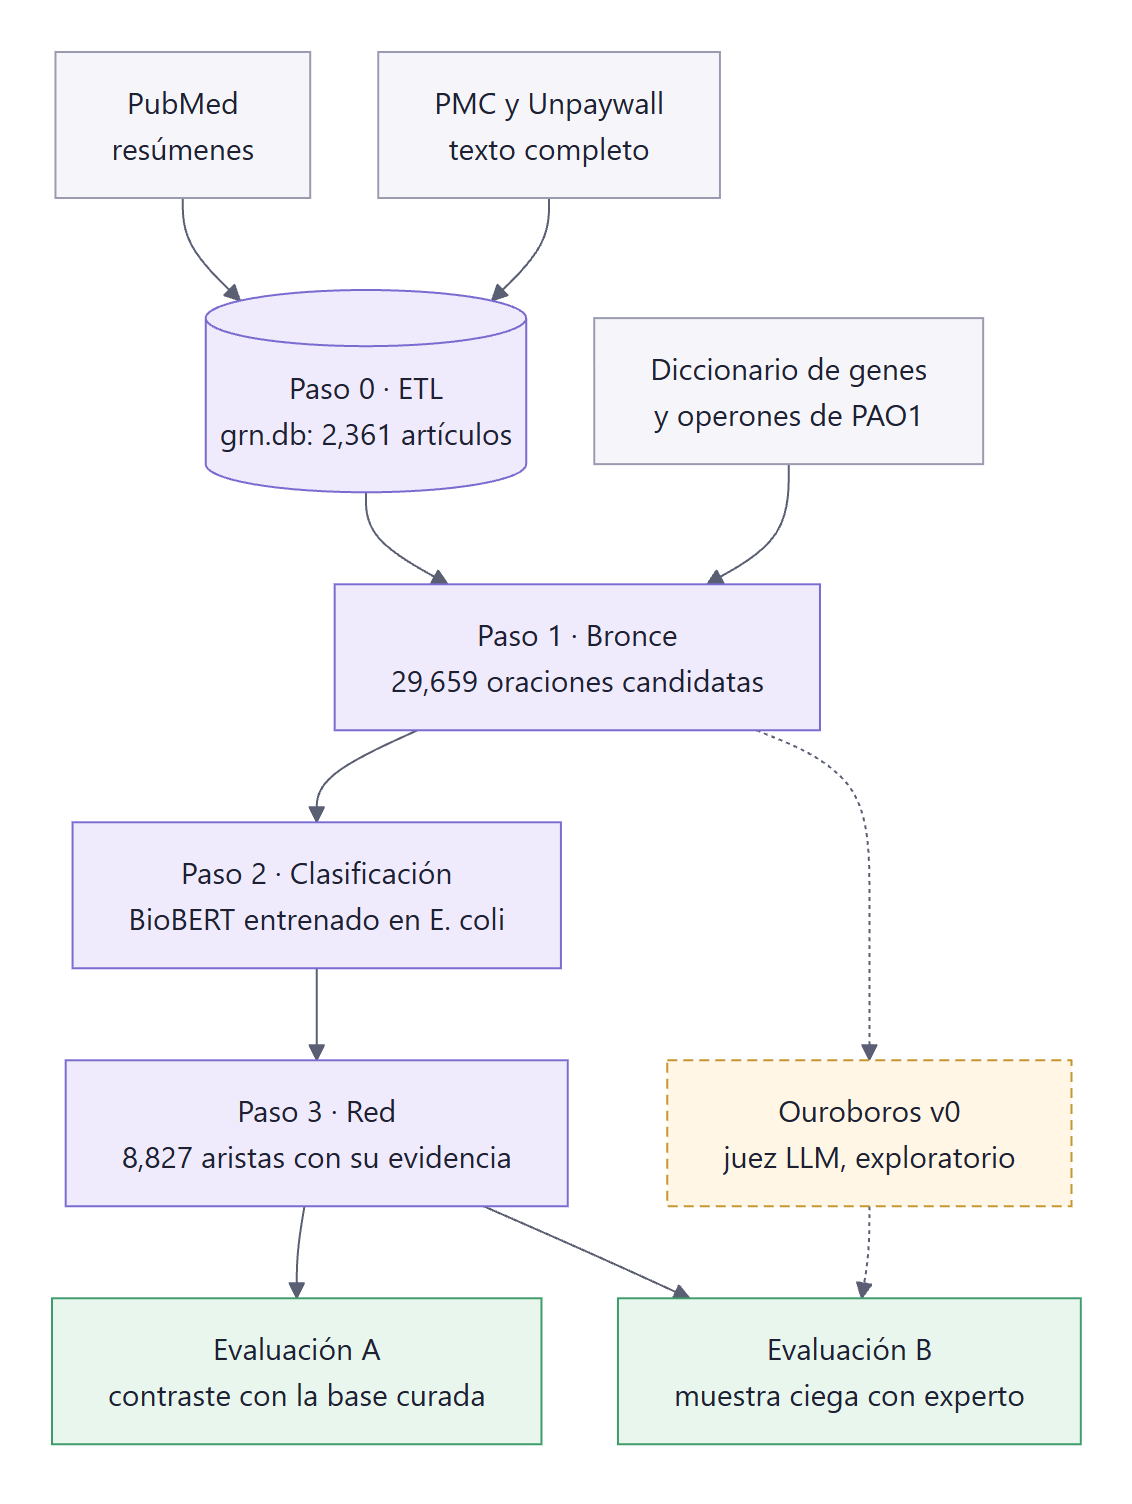
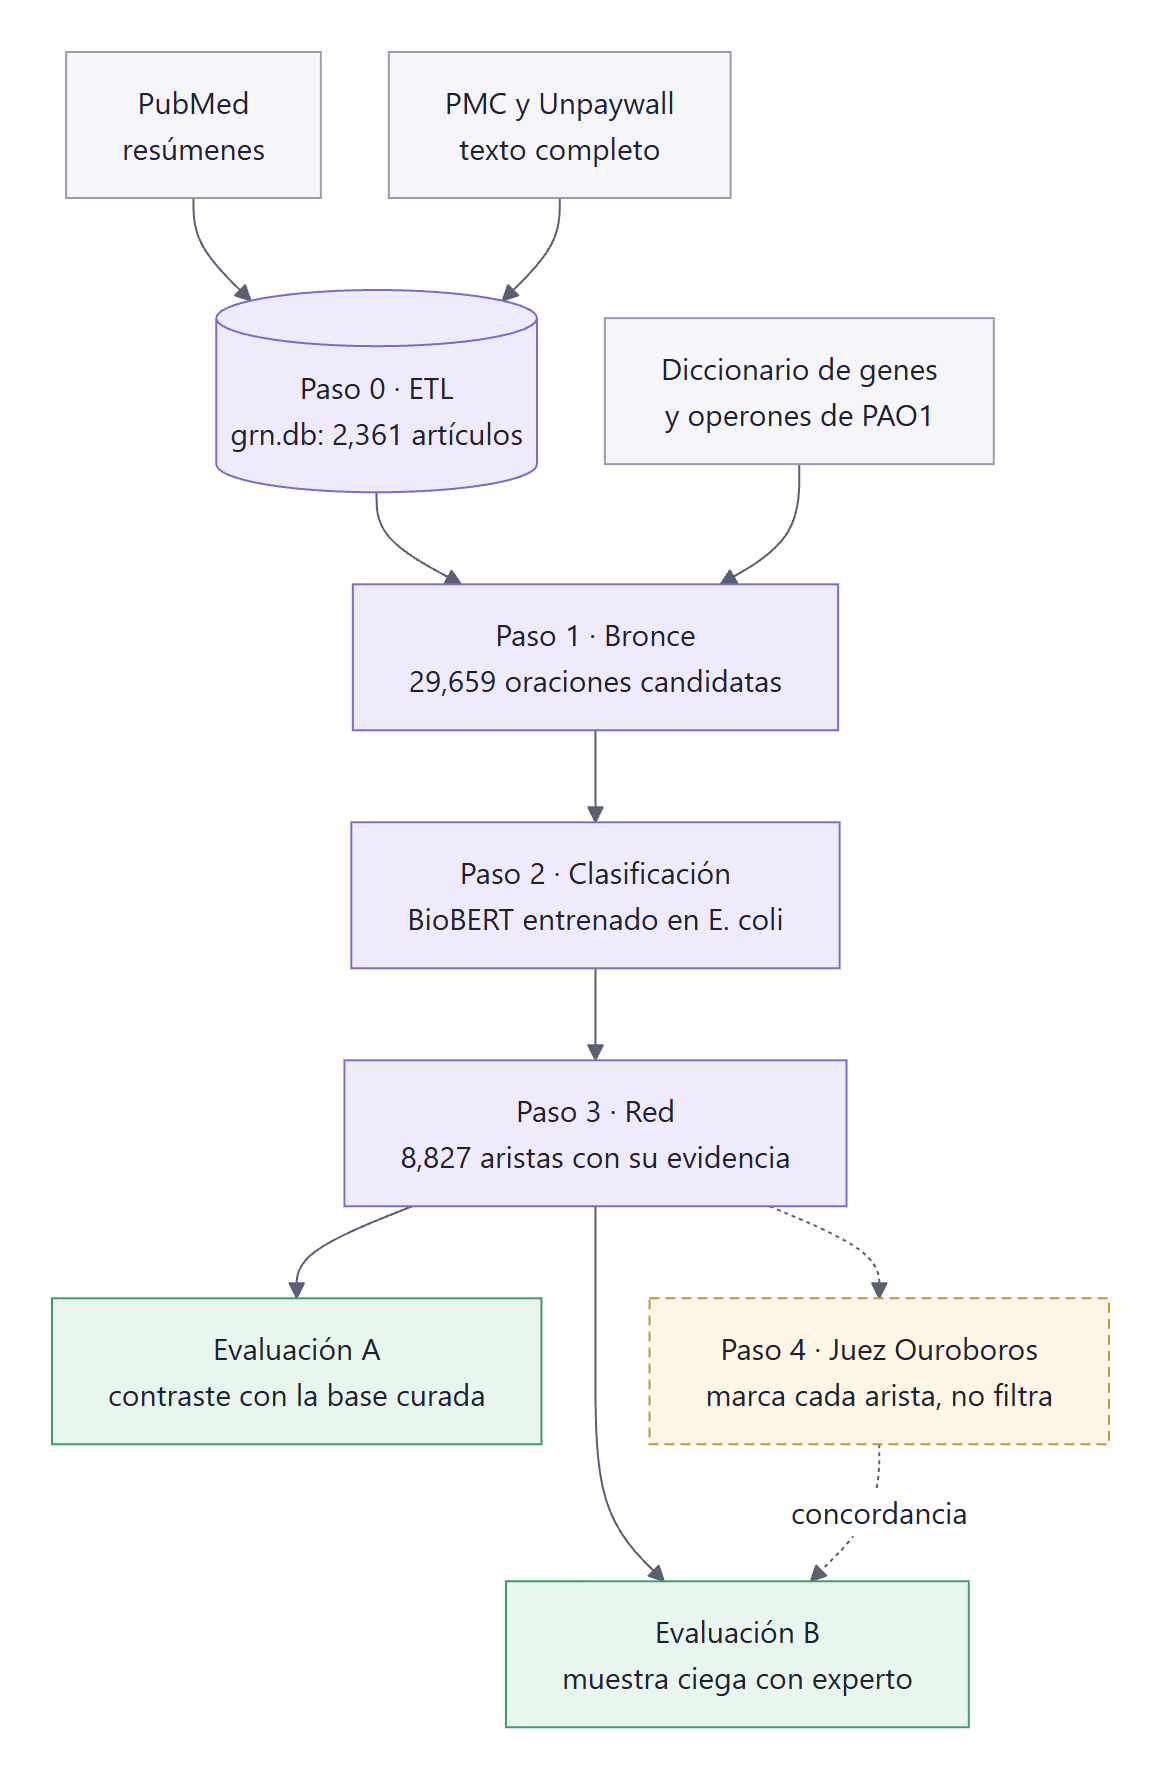
docs: bitácora del 4-nov y memoria técnica v0.4
Tanda 2 al corte de 100 (red, redes de signo y Ouroboros), prueba con 40
artículos nuevos de punta a punta, el agente como paso juez y el visor. Las
figuras de arquitectura y cronología, al día.

diff --git a/docs/reporte/reporte.md b/docs/reporte/reporte.md
@@ -6,7 +6,7 @@ encabezado: Memoria técnica · GRN de P. aeruginosa PAO1 desde la literatura
 autor: Guillermo Resendiz
 asesor: Dr. Edgardo Galán-Vásquez
 institucion: IIMAS, UNAM
-version: v0.2 (borrador) · 30-oct-2026
+version: v0.4 (borrador) · 4-nov-2026
 -->
 
 ## Ficha técnica
@@ -23,8 +23,8 @@ version: v0.2 (borrador) · 30-oct-2026
 | Referencias para evaluar | base curada del laboratorio (5,584 filas; 2,077 exigibles), muestra ciega (2 tandas de 200), patrón de oro (190), CollecTF (333 pares) |
 | Núcleo | Python ≥ 3.8, solo biblioteca estándar, SQLite |
 | Entornos aparte | `.venv` (torch, transformers) para BioBERT; `.venv-nlp` (spaCy) para la sintaxis; `.venv-ouroboros` (Strands, Ollama) en el servidor |
-| Pruebas | 1,794 en la raíz y 528 en `etapa2/` |
-| Estado al 30-oct | tanda 2 en anotación; cierre técnico el 4-nov-2026 |
+| Pruebas | 1,804 en la raíz y 528 en `etapa2/` |
+| Estado al 4-nov | tanda 2 medida a la mitad (100/200); prueba con 40 artículos nuevos corrida sin anotación; agente integrado al flujo como paso `juez` |
 
 ## 1. Objetivo y alcance
 
@@ -44,7 +44,7 @@ organismos.
 
 ## 2. Arquitectura
 
-<!-- figura: panorama | Figura 1. Pipeline completo: fuentes, pasos 0 a 3 y las dos evaluaciones. Ouroboros va en paralelo y no alimenta la red. -->
+<!-- figura: panorama | Figura 1. Pipeline completo: fuentes, pasos 0 a 4 y las dos evaluaciones. El juez (Ouroboros) marca la red y no la filtra. -->
 ```mermaid
 flowchart TB
   PM["PubMed<br/>resúmenes"]:::fuente
@@ -56,7 +56,7 @@ flowchart TB
   RED["Paso 3 · Red<br/>8,827 aristas con su evidencia"]:::paso
   CUR["Evaluación A<br/>contraste con la base curada"]:::ev
   CIEGA["Evaluación B<br/>muestra ciega con experto"]:::ev
-  OU["Ouroboros v0<br/>juez LLM, exploratorio"]:::expl
+  OU["Paso 4 · Juez Ouroboros<br/>marca cada arista, no filtra"]:::expl
   PM --> DB
   PMC --> DB
   DB --> OC
@@ -64,7 +64,8 @@ flowchart TB
   OC --> BB --> RED
   RED --> CUR
   RED --> CIEGA
-  OC -.-> OU -.-> CIEGA
+  RED -.-> OU
+  OU -. "concordancia" .-> CIEGA
   classDef fuente fill:#F6F6FA,stroke:#9A9AB0,color:#1F2133
   classDef paso fill:#EFEBFC,stroke:#7A6BD1,color:#1F2133
   classDef ev fill:#E8F6EE,stroke:#3E9B6A,color:#1F2133
@@ -84,6 +85,8 @@ flowchart TB
 | `servidor.py`, `web/index.html` | tablero local: ETL, pipeline, revisión |
 | `revision.py`, `revision_portatil.py` | anotación ciega y página portátil para el experto |
 | `grn_ouroboros/` | juez LLM (Strands + Ollama), solo en el servidor |
+| `grn_verificacion/juez.py` | paso `juez` del flujo: hoja para el agente y unión de su veredicto con la red |
+| `visor_red.py` | visor HTML autocontenido de una red, con su evidencia y el veredicto del agente |
 
 <!-- figura: donde | Figura 2. Dónde corre cada parte y qué viaja entre máquinas. De la base curada solo salen conteos. -->
 ```mermaid
@@ -122,6 +125,7 @@ timeline
   Septiembre : F2 · Paso 1, bronce de punta a punta, precisión 44 % : F3 · Operones y vocabularios, corridas 2 a 4
   Octubre 1-16 : F4 · flujo.py integrado y tablero : F5 · BioBERT reentrenado con la base curada, v1
   Octubre 17-31 : F5 · v2, decisión g : F6 · Contraste y muestra ciega, tanda 1 : F7 · Ouroboros v0 y prompt congelado : F8 · Tanda 2 en anotación
+  Noviembre 1-4 : F9 · Tanda 2 a la mitad, artículos nuevos, agente en el flujo y visor
 ```
 
 | Fase | Fechas | Qué se agregó | Por qué | Resultado |
@@ -135,6 +139,7 @@ timeline
 | F6 · Evaluación | 22–24 oct | `cli muestra` (sorteo), rúbrica, contraste con exigibles y techo, tanda 1 anotada, protocolo de la tanda 2 con huellas, signo como parámetro | Medir precisión y recall con un diseño que no permita ajustar después | Precisión 53.0 % → 61.3 %; recall dirigido 41.2 % |
 | F7 · Ouroboros v0 | 24–27 oct | Juez LLM con Strands y Qwen3-8B en Ollama; calibración; tanda 1 con 3 configuraciones; prompt congelado; tanda 2 corrida | Explorar un filtro automático antes del experto | Filtro: 94.3 % de precisión (66/70) en la principal |
 | F8 · Cierre | 23–30 oct | Página portátil de revisión (ceguera y tiempo por tramo), portada del tablero, desviación 1, esta memoria | Que el experto anote sin ver predicciones y que el proyecto se entienda | Tanda 2 en anotación (50/200 al 30-oct) |
+| F9 · Prueba e integración | 1–4 nov | Tanda 2 medida a la mitad (enmienda 4); descarga de artículos nuevos con su protocolo; Ouroboros como paso `juez` del flujo; visor de la red | Probar lo construido sobre datos que no se usaron para desarrollarlo, y verlo de punta a punta | La red mejora al bronce también en prueba; el agente filtra mejor que la red; 40 artículos nuevos corridos de punta a punta |
 
 **Incidentes con efecto en el diseño:**
 
@@ -421,10 +426,55 @@ Sobre las 1,560 filas exigibles sin el estrato BioBERT:
 - **Sintaxis (spaCy):** orienta 10,299 de 76,453 pares (13.5 %); queda
   informativa.
 
-### 6.4 Tanda 2 (prueba)
+### 6.4 Tanda 2 (prueba), corte intermedio de 100
 
-Pendiente: el experto la termina el fin de semana del 1-nov. Se reporta con
-`precision-ciega` y `concordancia`, según `docs/protocolo-tanda2.md`.
+El experto lleva 100 de 200 ítems. El corte se registró antes de medir
+(enmienda 4 de `docs/protocolo-tanda2.md`): son las filas 1 a 100 de la hoja,
+en el orden fijado en el sorteo, y las redes coinciden con sus huellas
+congeladas. **La cifra de prueba es la de los 200**; esta es intermedia.
+
+| Filtro | Precisión con dirección | Retención de las verdaderas | Diferencia contra el bronce (IC 95 %, bootstrap pareado) |
+|---|---|---|---|
+| Ninguno (bronce) | 39.0 % (39/100) [30.0, 48.8] | — | — |
+| Red oficial | 47.8 % (32/67) [36.2, 59.5] | 82.0 % (32/39) | [+2.3, +15.5] |
+| Ouroboros principal | 71.7 % (33/46) [57.5, 82.7] | 84.6 % (33/39) | [+22.7, +43.6] |
+| Ouroboros con think | 77.1 % (27/35) [61.0, 87.9] | 69.2 % (27/39) | [+26.2, +51.0] |
+
+- **Se sostiene:** la red mejora al bronce (el intervalo no incluye 0) y
+  retiene más del 80 % de las verdaderas, como en la tanda 1.
+- **Baja el nivel:** unos 13 puntos en el bronce y en la red respecto a la
+  tanda 1. La tanda 1 es de desarrollo; además, la tanda 2 tiene menos `si`
+  (57 % contra 73 %), y la guía incorporó las fallas de la tanda 1.
+- **Signo, no se sostiene:** con la abstención como error, la red da 11/24
+  contra 18/24 de «siempre activa»; cuando da signo, 11/18 contra 14/18. Las
+  reglas de respaldo llegan a 13/24 (`signo`) y 14/24 (`signo_conservador`,
+  `signo_articulo`).
+- **Tiempo del experto:** mediana de 89.5 s por oración (201 min en 98).
+
+### 6.5 Prueba con artículos nuevos
+
+Protocolo: `docs/protocolo-prueba-nuevos.md` (enmiendas 1 y 2, anteriores a
+descargar). Mide el pipeline congelado sobre artículos dados de alta en
+PubMed después de armar el corpus.
+
+| Paso | Resultado |
+|---|---|
+| Congelamiento | modelo, umbrales, red y 10 recursos del bronce coinciden con `congelado-prueba-nuevos.json` |
+| Descarga (alta en PubMed del 19-ago al 4-nov-2026) | 40 artículos distintos, solo resumen: 26 + 22 + 2 por consulta |
+| Contaminación | 0 cruces con el corpus, las reservas, las tandas, las juzgadas, la base curada y las particiones de entrenamiento |
+| Bronce (corrida 16) | 425 oraciones, 36 candidatas |
+| Clasificación y red | 109 pares, 95 sobre el umbral, 61 aristas, 36 genes |
+| Contra la red de agosto | 34 aristas confirman pares conocidos (11 con el mismo signo), 27 son nuevas |
+| Juicio del agente (paso `juez`) | 13 confirmadas, 6 invertidas, 5 dudosas, 34 rechazadas, 3 sin juicio |
+
+- **Sin cifra de calidad todavía.** La muestra del protocolo se sortea entre
+  las oraciones con el par del bronce, y en 40 resúmenes son 7. La propuesta
+  es anotar el censo de los 109 pares, con una enmienda previa.
+- **Errores visibles:** coocurrencias en listas («LuxR homologs: LasR, RhlR
+  and QscR») y reguladores fuera del diccionario («Gp53 represses ftsZ, fleQ,
+  pslA and amrZ»; Gp53 es de un fago). El agente rechaza esos casos, pero
+  confirma por error aristas de listas de genes regulados juntos
+  («co-treatment downregulated lasR, rhlR, pslA, pelA and fliC»).
 
 ## 7. Ouroboros v0
 
@@ -442,8 +492,10 @@ flowchart LR
 ```
 
 - **Qué es:** un anotador automático que contesta las mismas hojas que el
-  experto, con las etiquetas de la rúbrica. No es un paso de `flujo.py` ni toca
-  la red.
+  experto, con las etiquetas de la rúbrica.
+- **En el flujo:** desde el 4-nov es el paso `juez`. Juzga cada oración de
+  evidencia de la red y deja su veredicto en `red_juez.tsv`. **Marca, no
+  filtra**: `red.tsv` no cambia y sus cifras no dependen del agente.
 - **Entorno:** `.venv-ouroboros` (Python 3.12.11; strands-agents 1.62.0,
   evals 1.7.0, tools 0.8.10, ollama 0.6.3); Ollama 0.40.9 en el servidor
   (RTX 3070, 8 GB); `qwen3:8b` Q4_K_M, digest `500a1f067a9f`. El juez nunca
@@ -465,9 +517,19 @@ en VRAM). Con q8_0 y flash attention entra completo (5.24 GiB).
 | `buscar_locus` | 63.6 % (0.329) | 73.2 % (0.571) | 61.1 % (0.463) | 88.1 % (74/84) | 70.5 % | 11 | 4.1 |
 | con think | 62.1 % (0.353) | 72.2 % (0.585) | 63.6 % (0.507) | 96.0 % (72/75) | 68.6 % | 6 | 16.9 |
 
-**Tanda 2:** corrida el 27-oct, antes de que empezara la anotación. Válidas:
-187, 186 y 193 de 200. La concordancia se calcula cuando llegue la exportación
-del experto.
+**Tanda 2, corte de 100** (corrida el 27-oct, antes de que empezara la
+anotación; abstención = error):
+
+| Configuración | Relación (κ) | Dirección (κ) | Signo (κ) | Filtro: precisión | Retiene | Abst. |
+|---|---|---|---|---|---|---|
+| principal | 62.0 % (0.358) | 61.0 % (0.408) | 38.0 % (0.156) | 71.7 % (33/46) | 84.6 % | 5 |
+| `buscar_locus` | 64.0 % (0.378) | 61.0 % (0.402) | 39.0 % (0.170) | 69.4 % (34/49) | 87.2 % | 3 |
+| con think | 62.0 % (0.374) | 63.0 % (0.447) | 46.0 % (0.250) | 77.1 % (27/35) | 69.2 % | 3 |
+
+Como filtro, en la tanda 2 el agente supera a la red sobre los mismos ítems:
+71.7 % contra 47.8 % de precisión, con retención parecida (84.6 % contra
+82.0 %). El acuerdo campo por campo es moderado en relación y bajo en signo y
+tipo.
 
 ## 8. Decisiones
 
@@ -481,7 +543,7 @@ Formato: se decidió X; la alternativa Y se activa con el parámetro Z.
 | Operón como nodo | expandir a sus genes | `operones=expandir` | conserva lo que dice el texto |
 | Reglas de signo de respaldo apagadas | prenderlas | `--signo-lexico`, `--voto-articulo` | se miden en la tanda 2 |
 | Denominador del contraste: 2,077 | otra regla de exigibles | regla versionada | fija la cifra entre corridas |
-| Ouroboros fuera del flujo | integrarlo como paso | — | exploratorio; el flujo es determinista |
+| Ouroboros en el flujo como paso `juez`, que marca y no filtra | filtrar la red con su veredicto | — | la red medida no cambia; el filtro se decide con la tanda 2 completa |
 | Principal de Ouroboros sin think | con think | `--config con_think` | pre-registrada antes de medir |
 | Todo local | modelo grande en la nube | permiso del asesor | sin servicios externos ni datos fuera |
 
@@ -489,7 +551,7 @@ Detalle de cada decisión: `docs/decisiones.md`.
 
 ## 9. Reproducción
 
-*La receta se verifica en un clon limpio en la v0.3.*
+*La receta se verifica en un clon limpio en una versión posterior.*
 
 | Requisito | Para qué |
 |---|---|
@@ -505,13 +567,17 @@ python cli.py run pa_regulacion
 python cli.py fulltext --tipo xml
 python flujo.py --corrida 4
 python -m unittest discover
+python visor_red.py --carpeta salidas/flujo/corrida4_run22 --salida visor.html
 ```
+
+El paso `juez` necesita correr Ouroboros en el servidor entre dos pasadas;
+los comandos están en `docs/ouroboros-v0.md`, «Integrado al flujo».
 
 | Verificación | Valor esperado |
 |---|---|
 | Oraciones candidatas, corrida 4 | 29,659 |
 | Aristas en `red.tsv` | 8,827 |
-| Pruebas de la raíz | 1,794 OK |
+| Pruebas de la raíz | 1,804 OK |
 | Recall dirigido (servidor) | 642/1,560 |
 
 Contraste y muestra ciega en el servidor: `docs/servidor-cierre.md`.
@@ -522,11 +588,13 @@ Ouroboros: `docs/ouroboros-v0.md`.
 - **Recall limitado por el corpus:** el techo es 46.2 %. Lo que falta está en
   material suplementario o en artículos sin texto completo.
 - **Dirección:** 27 % de inversiones en el bronce.
-- **Signo:** abstención alta.
+- **Signo:** en la tanda 2 no supera a «siempre activa», ni cuando lo da.
+- **Tanda 2 a la mitad:** faltan 100 ítems; la cifra de prueba es la de 200.
+- **Artículos nuevos sin cifra de calidad:** falta anotar los 109 pares.
+- **El agente** confirma por error coocurrencias en listas de genes
+  regulados juntos.
 - **Un solo anotador experto;** acuerdo entre anotadores en curso (50 ítems,
   segunda anotadora).
-- **Corpus congelado** en agosto de 2026; la prueba con artículos nuevos tiene
-  protocolo (`docs/protocolo-prueba-nuevos.md`).
 - **Tesis:** LLM sobre el residuo, material suplementario, herramientas del
   juez, otros organismos.
 
@@ -546,12 +614,16 @@ Ouroboros: `docs/ouroboros-v0.md`.
 | Pre-registro | escribir qué se mide y cómo antes de ver los datos |
 | Tanda | lote de oraciones sorteadas para anotación ciega |
 
-## Anexo B. Desviaciones del protocolo
+## Anexo B. Enmiendas posteriores y desviaciones del protocolo
 
 - **Desviación 1 (30-oct-2026).** Una sesión de Claude vio un respaldo parcial
   de la tanda 2: 50 ítems, solo identificadores y juicios. Redes, prompt y
   corridas de Ouroboros estaban congelados antes de que empezara la anotación.
   Registro: `docs/protocolo-tanda2.md`.
+- **Enmienda 4 de la tanda 2 (4-nov-2026).** Corte intermedio de 100 ítems,
+  registrado antes de medir. La cifra de prueba sigue siendo la de los 200.
+- **Enmienda 2 de la prueba con artículos nuevos (4-nov-2026).** Ouroboros
+  entra a la prueba; registrada antes de descargar.
 
 ## Anexo C. Documentos de referencia
 

diff --git a/docs/bitacora.md b/docs/bitacora.md
@@ -8,6 +8,74 @@ Para el detalle técnico de cada punto está
 
 ---
 
+## 4 de noviembre de 2026 — la tanda 2 a la mitad, los artículos nuevos y el agente en el flujo
+
+El asesor pidió ver el sistema integrado y probado antes del 6-nov. El
+experto lleva 100 de 200 ítems de la tanda 2 y no puede anotar más esta
+semana. Todo lo de hoy lo corrió Hermes.
+
+**Tanda 2, corte intermedio de 100 (enmienda 4, `bc3564f`).** Antes de medir
+se comprobó que las seis redes y las evidencias de la recomendada tienen las
+huellas de la enmienda 1. Los 100 son las filas 1 a 100 de la hoja, en el
+orden fijado en el sorteo.
+
+| | bronce | red oficial | Ouroboros principal | con think |
+|---|---|---|---|---|
+| precisión con dirección | 39/100 = 39.0 % [30.0, 48.8] | 32/67 = 47.8 % [36.2, 59.5] | 33/46 = 71.7 % [57.5, 82.7] | 27/35 = 77.1 % [61.0, 87.9] |
+| retención de las verdaderas | — | 32/39 = 82.0 % | 33/39 = 84.6 % | 27/39 = 69.2 % |
+| diferencia contra el bronce (bootstrap pareado) | — | [+2.3, +15.5] | [+22.7, +43.6] | [+26.2, +51.0] |
+
+- `buscar_locus`: 34/49 = 69.4 %, retiene 87.2 %, [+21.0, +40.7].
+- Acuerdo de Ouroboros con el experto en `relacion`: principal 62.0 %
+  (κ 0.358), `buscar_locus` 64.0 % (κ 0.378), con think 62.0 % (κ 0.374). En
+  signo y tipo, κ entre 0.16 y 0.25. Abstenciones: 5, 3 y 3.
+- Las otras redes dan la misma precisión que la oficial (las de signo solo
+  cambian el signo); la recomendada, 32/69 = 46.4 %.
+- **Signo.** Con la abstención como error, la oficial da 11/24 contra 18/24
+  de «siempre +»; `signo`, 13/24; `signo_conservador` y `signo_articulo`,
+  14/24. Cuando la red da signo, 11/18 contra 14/18. En la tanda 1 ganaba
+  cuando lo daba (42/48 contra 35/48): en la tanda 2 no se sostiene. La
+  diferencia pareada entre `signo` y la oficial queda para los 200:
+  `precision-ciega` no guarda el resultado por ítem.
+- **Tiempo del experto:** 201 min en 98 ítems, mediana de 89.5 s por ítem.
+- Lectura: la precisión baja unos 13 puntos contra la tanda 1, en el bronce y
+  en la red; la mejora de la red se mantiene. En la tanda 2 hay menos `si`
+  (57 % contra 73 %), y después de la tanda 1 la guía incorporó sus fallas
+  (negación, mutantes que invierten el signo, otro organismo).
+
+**Prueba con artículos nuevos (`protocolo-prueba-nuevos.md`, enmienda 2,
+`2149bd8`).**
+- Congelamiento comprobado: los 10 recursos, la red y los 5 archivos del
+  modelo coinciden; del código, desde la etiqueta solo cambió la evaluación.
+- Descarga con alta en PubMed del 2026/08/19 al 2026/11/04: 26
+  (`nuevos_pa_regulacion`), 22 (`nuevos_pa_reguladores`) y 2
+  (`nuevos_pa_evidencia_union`); 40 distintos.
+- Contaminación: 0 cruces en la laptop (corpus, reservas, tandas 1 y 2,
+  juzgadas) y en el servidor (base curada, particiones v1 y v2).
+- Corpus `nuevos-20261104` (40, huella `56abe0d6dd8c6f01`), bronce corrida 16:
+  425 oraciones, 36 candidatas, 7 con regulador y blanco.
+- Flujo: 109 pares en 32 oraciones de 19 artículos, 95 pasan el umbral, red
+  de 61 aristas y 36 nodos. Contra la red de la corrida 4: 11 en la misma
+  dirección y signo, 23 en la misma dirección con otro signo, 27 nuevas.
+- **El diseño no alcanza:** la muestra se sortea entre las oraciones con el
+  par del bronce, y son 7. El experto no puede anotar esta semana, así que
+  la prueba con artículos nuevos queda sin cifra de calidad. Propuesta para
+  después: el censo de los 109 pares, con una enmienda antes de anotar.
+
+**Ouroboros entra al flujo como el paso `juez`** (`decisiones.md`). Sobre la
+red de los artículos nuevos (93 oraciones, unos 3 min de GPU, 3
+abstenciones): 13 aristas confirmadas, 6 invertidas, 5 dudosas, 34 rechazadas
+y 3 sin juicio. Rechaza las aristas de «Gp53 represses ftsZ, fleQ, pslA and
+amrZ» (Gp53, de fago, no está en el diccionario) y las de listas como «LuxR
+homologs: LasR, RhlR and QscR». Confirma, mal, aristas de listas de genes
+regulados juntos («co-treatment downregulated lasR, rhlR, pslA, pelA and
+fliC»): es su error conocido. Es descriptivo, sin cifra de calidad.
+
+**Visor de la red** (`visor_red.py`): un HTML autocontenido para buscar un gen
+y ver sus aristas, oraciones, PubMed y el veredicto del agente.
+
+---
+
 ## 27 de octubre de 2026 — Ouroboros en la calibración y la tanda 1, y el prompt congelado
 
 Hermes corrió los pasos 1 y 2 de `servidor-cierre.md` §7, con `main` en
